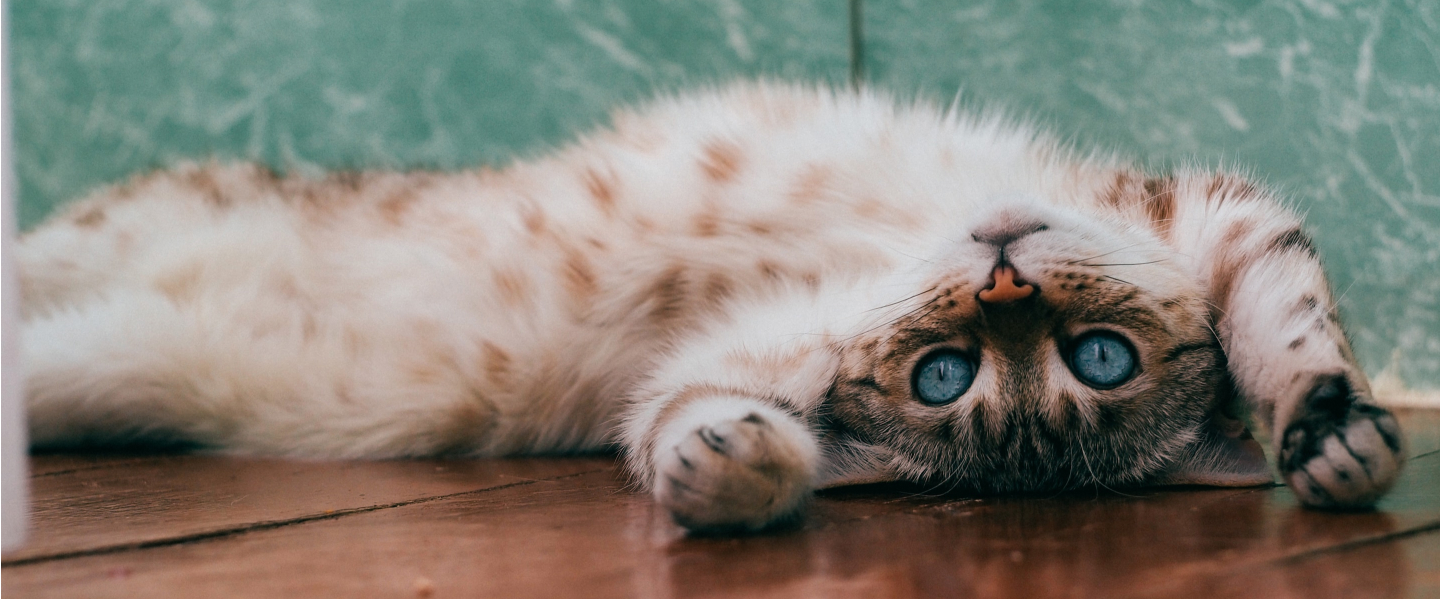
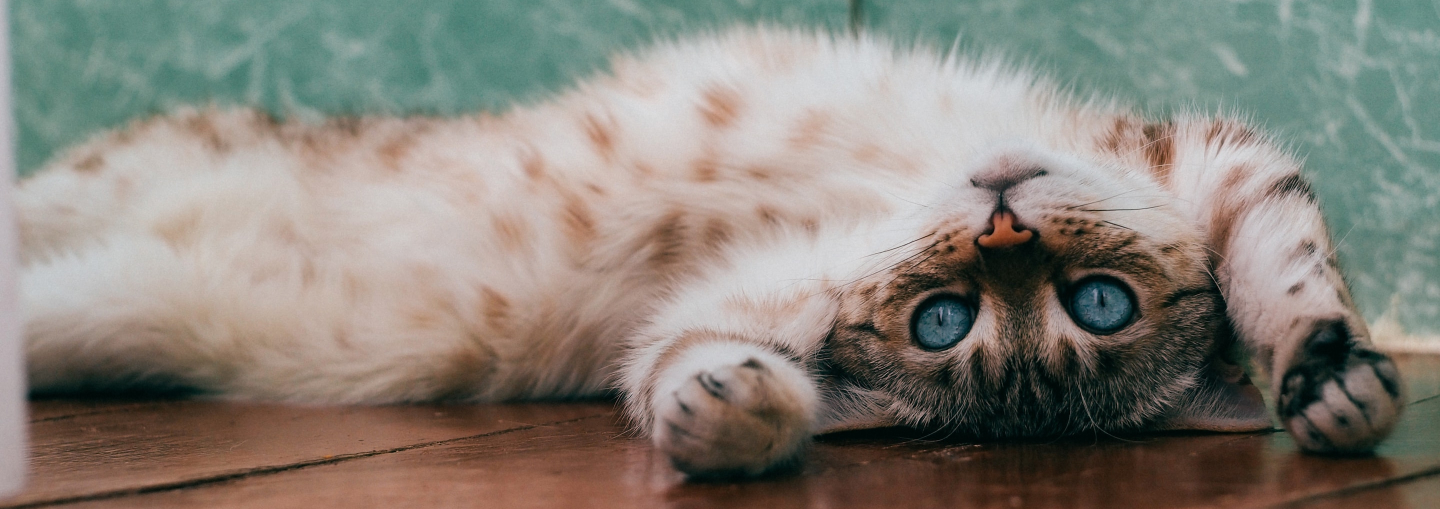
Add pages Dlouhodoba podpora and Materialni pomoc

diff --git a/daruj-dlouhodoba-podpora.html b/daruj-dlouhodoba-podpora.html
@@ -11,7 +11,7 @@
 
     <link rel="stylesheet" href="CSS/style.css">
 
-    <title>O nás</title>
+    <title>Dlouhodobá podpora</title>
 </head>
 
 
@@ -52,7 +52,7 @@
 
     <!--Header-image-->
 
-    <figcaption class="pages__img-wrapp"><img class="pages__img" src="images/o-nas-header.jpg" alt="kocky-adopce"></figcaption>
+    <figcaption class="pages__img-wrapp"><img class="pages__img" src="images/dlouhodoba-podpora-header.jpg" alt="kocky-adopce"></figcaption>
 
     <main class="wrapper">
 
@@ -60,22 +60,20 @@
         <!--Hlavní nadpis stránky-->
 
         <div class="wrapper__cats">
-            <h2 class="cats__title">O našem azylu</h2>
+            <h2 class="cats__title">Dlouhodobá podpora</h2>
         </div>
 
-        <!--O nás odstavce textu-->
+        <!--Dlouhodobá podpora odstavce textu-->
 
         <section class="text">
-            <p class="text__paragraph">Azyl Jiřina Skoumalová z.s. byl založen v roce 2017, ale v péči o bezprizorní kočky začal už dříve, kdy se Jiřinka přistěhovala do obce Ústup.</p>
-            <p class="text__paragraph">Hlavním cílem Azylu je péče o opuštěné, zraněné a nemocné kočky, kastrace koček, veterinární ošetření, odčervení, očkování a hledání nových domovů. Dostávají se k nám také kočky po zemřelých majitelích, z různých rodinných důvodů, nechtěná koťata odhozená většinou na opuštěných mistech.</p>
-            <p class="text__paragraph">Jsme nezisková organizace, kde převážná část peněz na provoz je získána od drobných dárců a pořádáním aukcí na fb dobrovolníky, podporuje nás také brněnský spolek Kryšpín. Náklady na provoz jsou vysoké.. V Azylu je v současné době přes 100 kočiček, ročně přijmeme a vykastrujeme stejný počet.</p>
-            <p class="text__paragraph">Bohužel většina obcí stále problém opuštěných koček neřeší, dokonce někde zakazují krmení koček, což ale není řešením. Pokud existují krmná místa a o venkovní kočky se někdo stará, mohou se dát kastrovat a tím se redukuje nárust populace. Kočka mívá kolem pěti koťat 2x za rok. Dlouhodobým řešením je pouze kastrace, kdy se občané mohou obrátit na kastrační programy, v současné době KasPro a Feliti kastruje. Na jejich webových stránkách zjistíte více informací.</p>
-            <p class="text__paragraph">Také existuje web <a class="text__link" href="https://www.obcekastruji.cz/">obce kastrují</a>, kde najdete seznam útulků, veterinářů a více informací. Komu problematika opuštěných koček není lhostejná, ať se obrátí na starosty obcí, na veterinární ordinace, zda mohou kastrace propagovat, pomoci starším lidem v okolí se zajištěním kastrace. Nepodporujte prosím domácí množení koťat, útulky jsou již teď nad své limity a každé další kotě zabere místo kočce z útulku, který potom nemůže pomoci dalším kočkám, které čekají na ulici.</p>
+            <p class="text__paragraph">Dlouhodobá podpora našeho kočičího útulku je klíčová pro udržení naší práce a poskytnutí neustálé péče a ochrany našim kočičím svěřencům. Vaše dlouhodobé angažování a finanční příspěvky nám umožňují pokračovat ve zlepšování podmínek v útulku, rozšiřovat naše služby a poskytovat vysoce kvalitní péči všem kočkám.</p>
+            <h3 class="text__title">Co nám Vaše podpora umožní</h3>
+            <p class="text__paragraph">Dlouhodobá podpora útulku nám dává stabilitu a jistotu, že budeme moci pokračovat v naší misi zachraňování a ochraně koček dlouhodobě. Vaše pravidelné příspěvky nám umožňují plánovat a investovat do budoucnosti útulku.</p>
+            <p class="text__paragraph">Staňte se dlouhodobým podporovatelem našeho kočičího útulku a dejte nám sílu a jistotu, že můžeme pokračovat v naší práci. Vaše dlouhodobé angažování je investicí do šťastného a bezpečného života koček, které potřebují pomoc. Společně můžeme vytvářet dlouhodobé změny a dávat kočkám naději na lepší budoucnost.</p>
+            <p class="text__paragraph">Díky vaší podpoře můžeme také vést osvětové kampaně a vzdělávat veřejnost o správné péči o kočky a významu adopce.</p>
+            <h3 class="text__title">Každá pomoc se počítá</h3>
+            <p class="text__paragraph">Pokud se pro tento druh podpory rozhodnete, může využít takzvaného trvalého příkazu, který za vás pošle Vámi zvolenou částku každý měsíc. Vůbec nemusí jít o velkou sumu. Každá pomoc se počítá. Třeba je ve Vašich možnostech posílat například 100 kč a je to úplně v pořádku. Budeme moc vděční za jakoukoliv pomoc.</p>
         </section>
-
-
-
-
 
 
     </main>

diff --git a/daruj-materialni-pomoc.html b/daruj-materialni-pomoc.html
@@ -11,7 +11,7 @@
 
     <link rel="stylesheet" href="CSS/style.css">
 
-    <title>O nás</title>
+    <title>Materiální pomoc</title>
 </head>
 
 
@@ -52,7 +52,7 @@
 
     <!--Header-image-->
 
-    <figcaption class="pages__img-wrapp"><img class="pages__img" src="images/o-nas-header.jpg" alt="kocky-adopce"></figcaption>
+    <figcaption class="pages__img-wrapp"><img class="pages__img" src="images/materialni-pomoc-header.jpg" alt="kocky-adopce"></figcaption>
 
     <main class="wrapper">
 
@@ -60,22 +60,28 @@
         <!--Hlavní nadpis stránky-->
 
         <div class="wrapper__cats">
-            <h2 class="cats__title">O našem azylu</h2>
+            <h2 class="cats__title">Materiální pomoc</h2>
         </div>
 
-        <!--O nás odstavce textu-->
+        <!--Materiální pomoc odstavce textu-->
 
         <section class="text">
-            <p class="text__paragraph">Azyl Jiřina Skoumalová z.s. byl založen v roce 2017, ale v péči o bezprizorní kočky začal už dříve, kdy se Jiřinka přistěhovala do obce Ústup.</p>
-            <p class="text__paragraph">Hlavním cílem Azylu je péče o opuštěné, zraněné a nemocné kočky, kastrace koček, veterinární ošetření, odčervení, očkování a hledání nových domovů. Dostávají se k nám také kočky po zemřelých majitelích, z různých rodinných důvodů, nechtěná koťata odhozená většinou na opuštěných mistech.</p>
-            <p class="text__paragraph">Jsme nezisková organizace, kde převážná část peněz na provoz je získána od drobných dárců a pořádáním aukcí na fb dobrovolníky, podporuje nás také brněnský spolek Kryšpín. Náklady na provoz jsou vysoké.. V Azylu je v současné době přes 100 kočiček, ročně přijmeme a vykastrujeme stejný počet.</p>
-            <p class="text__paragraph">Bohužel většina obcí stále problém opuštěných koček neřeší, dokonce někde zakazují krmení koček, což ale není řešením. Pokud existují krmná místa a o venkovní kočky se někdo stará, mohou se dát kastrovat a tím se redukuje nárust populace. Kočka mívá kolem pěti koťat 2x za rok. Dlouhodobým řešením je pouze kastrace, kdy se občané mohou obrátit na kastrační programy, v současné době KasPro a Feliti kastruje. Na jejich webových stránkách zjistíte více informací.</p>
-            <p class="text__paragraph">Také existuje web <a class="text__link" href="https://www.obcekastruji.cz/">obce kastrují</a>, kde najdete seznam útulků, veterinářů a více informací. Komu problematika opuštěných koček není lhostejná, ať se obrátí na starosty obcí, na veterinární ordinace, zda mohou kastrace propagovat, pomoci starším lidem v okolí se zajištěním kastrace. Nepodporujte prosím domácí množení koťat, útulky jsou již teď nad své limity a každé další kotě zabere místo kočce z útulku, který potom nemůže pomoci dalším kočkám, které čekají na ulici.</p>
+            <p class="text__paragraph">Vaše darování materiálních potřeb je přímým způsobem, jak nám pomoci zajistit veškeré základní potřeby a komfort pro kočky v naší péči. Nyní zde máme přes 100 koček a spotřeba všeho je obrovská.</p>
+            <h3 class="text__title">Uvítáme když přinesete</h3>
+            <ul class="text__list">
+                <li>kvalitní granule, konzervy, kapsičky</li>
+                <li>savé podložky do karanténích klecí</li>
+                <li>stelivo</li>
+                <li>papírové utěrky</li>
+                <li>pytle na odpadky</li>
+                <li>přepravky</li>
+                <li>kočičí toalety</li>
+                <li>škrabadla</li>
+                <li>pelíšky</li>
+                <li>pěkné věci do aukcí</li>
+                <li>dřevěné brikety na zimu</li>
+            </ul>
         </section>
-
-
-
-
 
 
     </main>

diff --git a/daruj.html b/daruj.html
@@ -91,7 +91,7 @@
                 <figcaption class="text__wrapp-img"><img src="icons/icon-coffee.svg" alt="kafe"></figcaption>
                 <p class="text__paragraph text__paragraph--comparison">1 káva..................................krmení na 1-2 dny pro 1 kočku</p>
                 <figcaption class="text__wrapp-img"><img src="icons/icon-diner.svg" alt="večeře"></figcaption>
-                <p class="text__paragraph text__paragraph--comparison">1 večeře v restauraci.......krmení na 1-2týdny pro 1 kočku</p>
+                <p class="text__paragraph text__paragraph--comparison">1 večeře v restauraci.......krmení na 1-2 týdny pro 1 kočku</p>
             </div>
             <p class="text__paragraph">Pomocí QR kódu můžete přispět během minutky bez nutnosti hotovosti nebo karty. Jde o jednu z nejbezpečnějčích plateb.</p>
             <h3 class="text__title">Jak na to?</h3>
@@ -132,7 +132,7 @@
                 <h2 class="basic-section__title">Dlouhodobá podpora</h2>
                 <p class="basic-section__text">Dlouhodobá podpora je klíčová pro udržení kontinuity péče o naše kočičí svěřence. Pokud jste ochotni přispívat pravidelně, můžete se rozhodnout pro trvalý platební příkaz.</p>
                 <p class="basic-section__text basic-section__text--mar-bot">Trvalý platební příkaz je investicí do budoucnosti našeho azylu.</p>
-                <div class="wrapp-butt"><a class="button button--primary" href="#">Chci se dozvědět více</a></div>
+                <div class="wrapp-butt"><a class="button button--primary" href="daruj-dlouhodoba-podpora.html">Chci se dozvědět více</a></div>
             </article>
         </section>
 
@@ -145,7 +145,7 @@
                 <h2 class="basic-section__title">Materiální pomoc</h2>
                 <p class="basic-section__text">Koupili jste Vaší kočce granule (konzervy, kapsičky..) které jí nechutnají, nebo máte doma spousty starých dek které nevyužitete a je Vám líto je vyhodit? </p>
                 <p class="basic-section__text basic-section__text--mar-bot">U nás v azylu by uplatnění našly.</p>
-                <div class="wrapp-butt"><a class="button button--primary" href="#">Chci se dozvědět více</a></div>
+                <div class="wrapp-butt"><a class="button button--primary" href="daruj-materialni-pomoc.html">Chci se dozvědět více</a></div>
             </article>
             <figure class="basic-section__wrapp"><img class="basic-section__img" src="images/foto-sekce-materialni-pomoc.jpg" alt="kocka-utulek"></figure>
         </section>
@@ -186,8 +186,8 @@
         <div class="list-links">
             <a href="#" class="list-links__link">Sbírka</a>
             <a href="#" class="list-links__link">Galerie</a>
-            <a href="#" class="list-links__link">Daruj</a>
-            <a href="#" class="list-links__link">Virtuální adopce</a>
+            <a href="daruj.html" class="list-links__link">Daruj</a>
+            <a href="daruj-virtualni-adopce.html" class="list-links__link">Virtuální adopce</a>
             <a href="pomahej.html" class="list-links__link">Dobrovolnictví</a>
         </div>
 

diff --git a/index.html b/index.html
@@ -165,7 +165,7 @@
                 <h2 class="basic-section__title">Virtuální adopce</h2>
                 <p class="basic-section__text">Možná nemůžete mít svojí kočku, máte třeba alergii nebo jiný důvod, ale kočky prostě milujete a i když nemůže, chtěli byste nějakou..</p>
                 <p class="basic-section__text basic-section__text--mar-bot">Máme pro Vás skvělou zprávu! Můžete! Adoptujte si ji virtuálně.</p>
-                <div class="wrapp-butt"><a class="button button--primary" href="virtualni-adopce.html">Chci se dozvědět více</a></div>
+                <div class="wrapp-butt"><a class="button button--primary" href="daruj-virtualni-adopce.html">Chci se dozvědět více</a></div>
             </article>
         </section>
 
@@ -190,7 +190,7 @@
                 <a href="#" class="list-links__link">Sbírka</a>
                 <a href="#" class="list-links__link">Galerie</a>
                 <a href="daruj.html" class="list-links__link">Daruj</a>
-                <a href="virtualni-adopce.html" class="list-links__link">Virtuální adopce</a>
+                <a href="daruj-virtualni-adopce.html" class="list-links__link">Virtuální adopce</a>
                 <a href="pomahej.html" class="list-links__link">Dobrovolnictví</a>
             </div>
 

diff --git a/adoption.html b/adoption.html
@@ -222,8 +222,8 @@
             <div class="list-links">
                 <a href="#" class="list-links__link">Sbírka</a>
                 <a href="#" class="list-links__link">Galerie</a>
-                <a href="#" class="list-links__link">Daruj</a>
-                <a href="#" class="list-links__link">Virtuální adopce</a>
+                <a href="daruj.html" class="list-links__link">Daruj</a>
+                <a href="daruj-virtualni-adopce.html" class="list-links__link">Virtuální adopce</a>
                 <a href="pomahej.html" class="list-links__link">Dobrovolnictví</a>
             </div>
 

diff --git a/daruj-virtualni-adopce.html b/daruj-virtualni-adopce.html
@@ -99,8 +99,8 @@
             <div class="list-links">
                 <a href="#" class="list-links__link">Sbírka</a>
                 <a href="#" class="list-links__link">Galerie</a>
-                <a href="#" class="list-links__link">Daruj</a>
-                <a href="#" class="list-links__link">Virtuální adopce</a>
+                <a href="daruj.html" class="list-links__link">Daruj</a>
+                <a href="daruj-virtualni-adopce.html" class="list-links__link">Virtuální adopce</a>
                 <a href="pomahej.html" class="list-links__link">Dobrovolnictví</a>
             </div>
 

diff --git a/kontakt.html b/kontakt.html
@@ -87,8 +87,8 @@
             <div class="list-links">
                 <a href="#" class="list-links__link">Sbírka</a>
                 <a href="#" class="list-links__link">Galerie</a>
-                <a href="#" class="list-links__link">Daruj</a>
-                <a href="#" class="list-links__link">Virtuální adopce</a>
+                <a href="daruj.html" class="list-links__link">Daruj</a>
+                <a href="daruj-virtualni-adopce.html" class="list-links__link">Virtuální adopce</a>
                 <a href="pomahej.html" class="list-links__link">Dobrovolnictví</a>
             </div>
 

diff --git a/pomahej.html b/pomahej.html
@@ -119,8 +119,8 @@
         <div class="list-links">
             <a href="#" class="list-links__link">Sbírka</a>
             <a href="#" class="list-links__link">Galerie</a>
-            <a href="#" class="list-links__link">Daruj</a>
-            <a href="#" class="list-links__link">Virtuální adopce</a>
+            <a href="daruj.html" class="list-links__link">Daruj</a>
+            <a href="daruj-virtualni-adopce.html" class="list-links__link">Virtuální adopce</a>
             <a href="pomahej.html" class="list-links__link">Dobrovolnictví</a>
         </div>
 

diff --git a/CSS/style.css b/CSS/style.css
@@ -766,6 +766,7 @@ a {
 .pages__img {
   display: block;
   width: 100%;
+  height: 100%;
 }
 
 @media screen and (min-width: 600px) {

diff --git a/SCSS/pages/_adoption.scss b/SCSS/pages/_adoption.scss
@@ -86,6 +86,7 @@
     &__img {
         display: block;
         width: 100%;
+        height: 100%;
     }
 }
 
